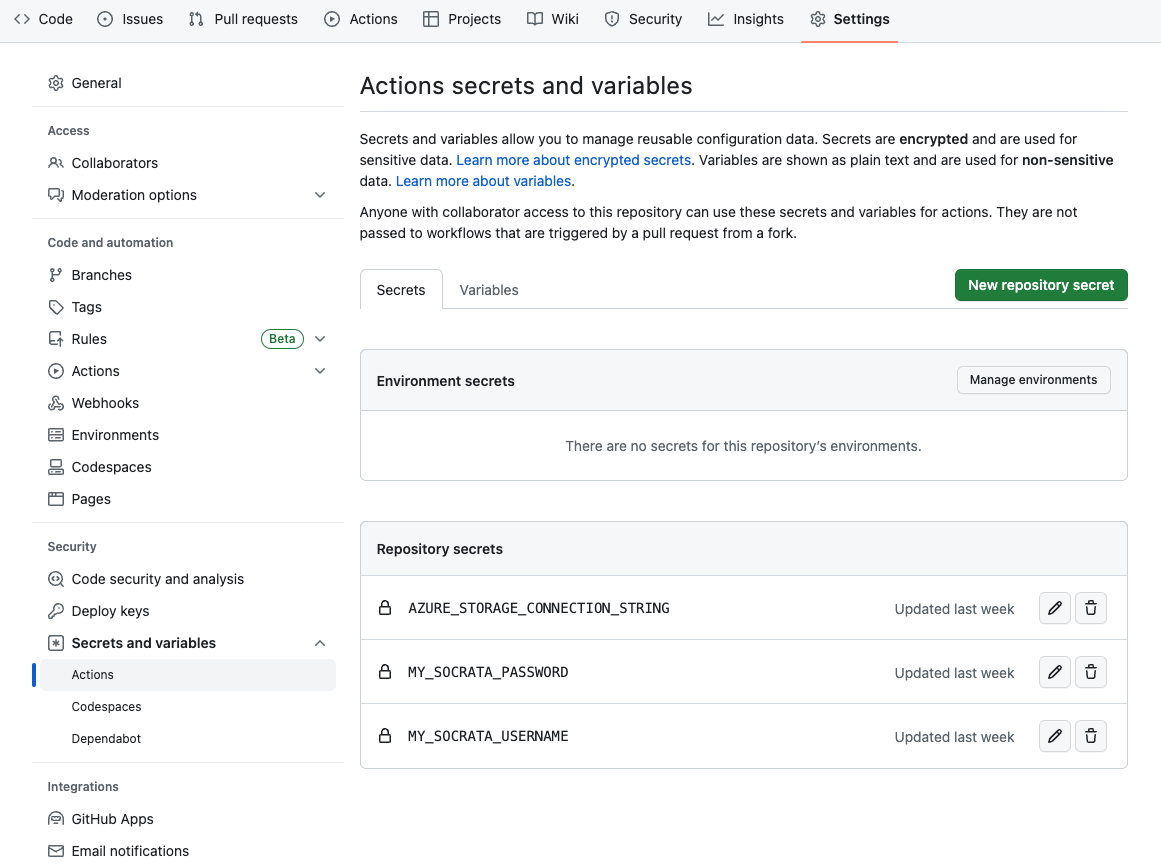
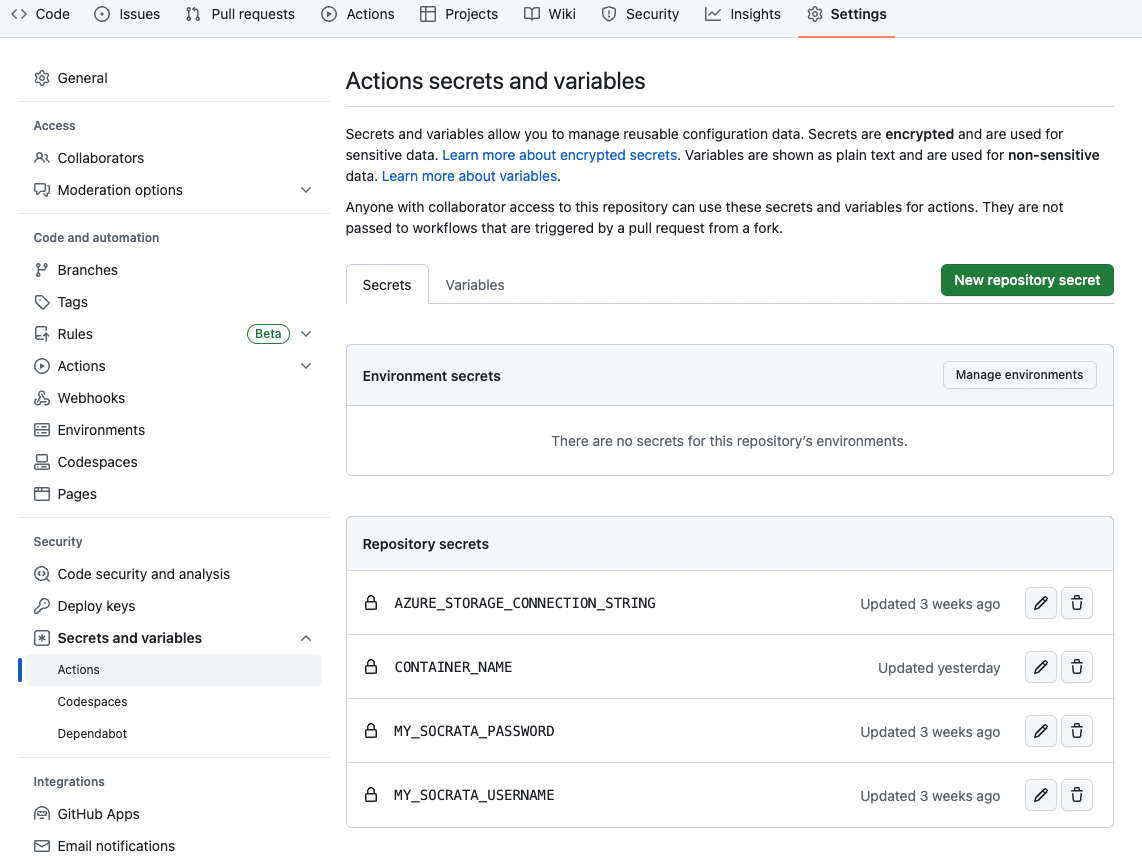
update README

diff --git a/README.md b/README.md
@@ -94,7 +94,7 @@ _***The container name here will directly influence your execution result. Be su
 
 ![Alt text](./Pictures/Container.png)
 
-![Alt text](./Pictures/Script_Container_Name.png)
+![Alt text](./Pictures/Secret_Container_Name.png)
 
 
 ### Credentials
